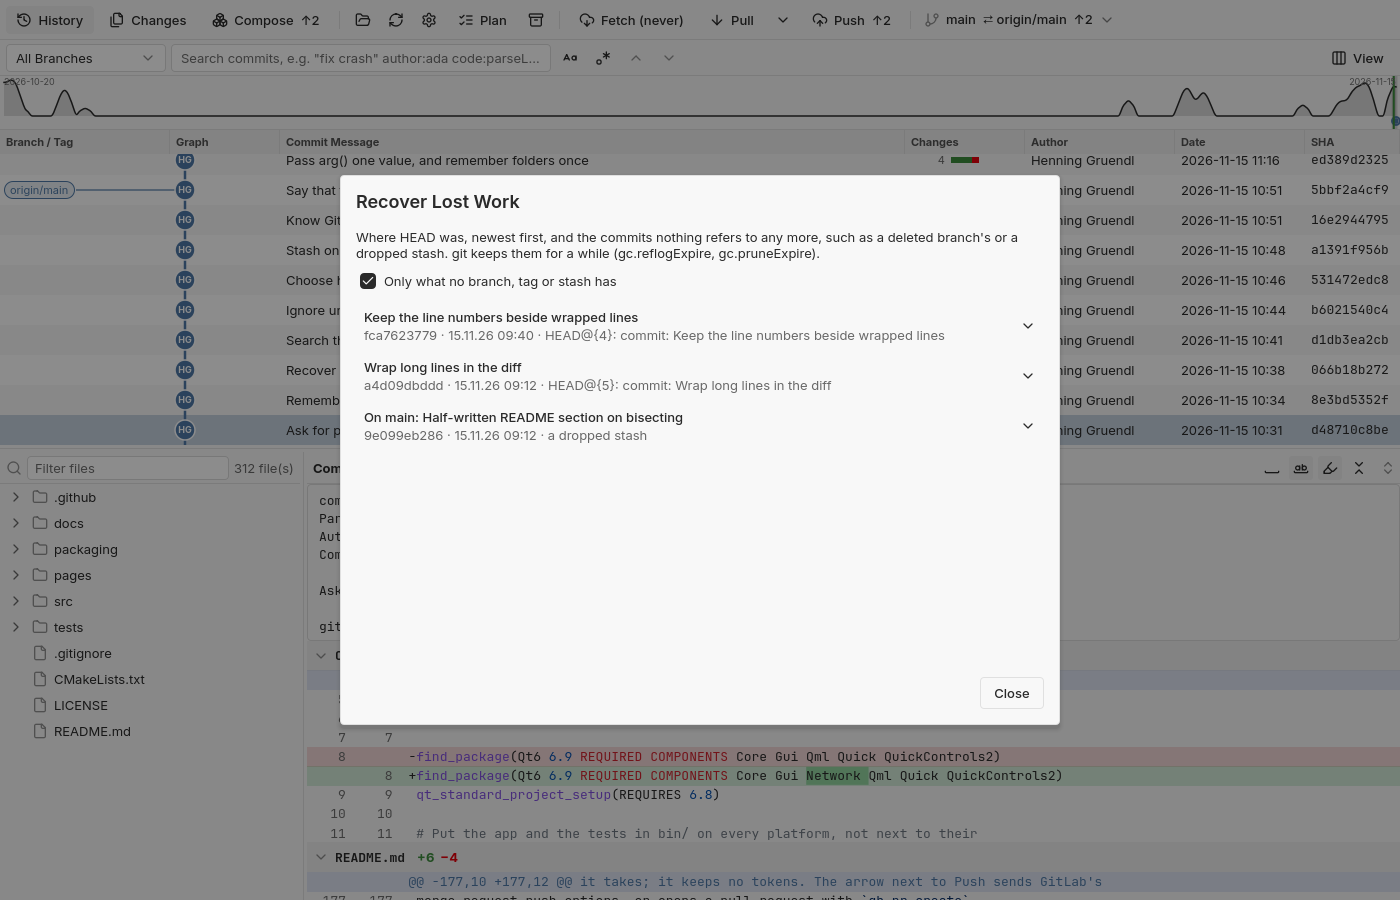
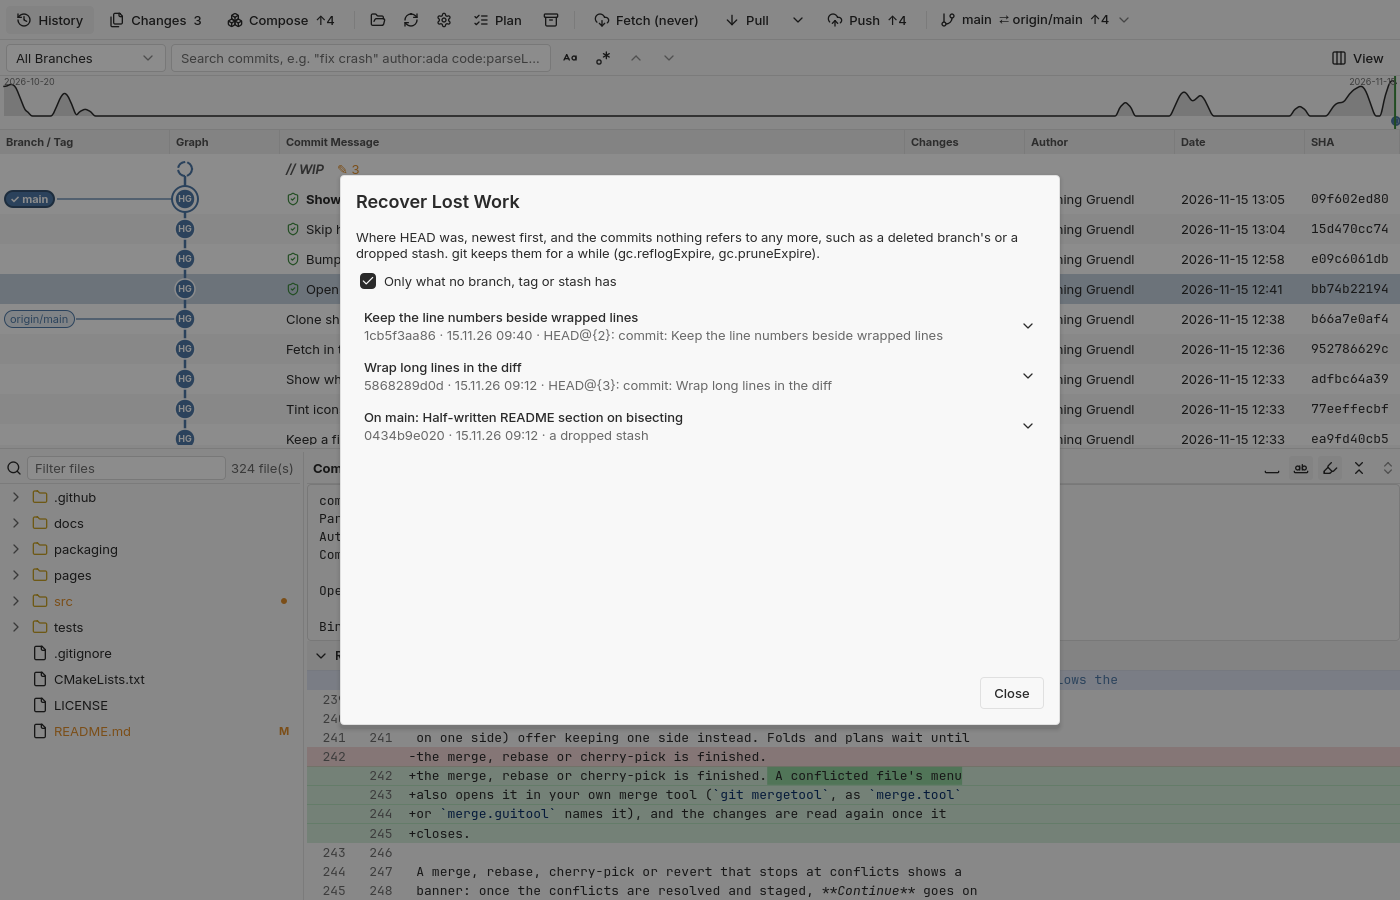
Take the older screenshots again for 0.8.0
The older pictures showed the folders in the disabled gray icons drew
before they took their colors, history from before signatures and the
arrow beside Commit, and a merge tool on a conflict long gone. Take
them all again from a clone of igitt as it is now, with its newest
commits signed and some work lost on purpose: History and the four
themes, the fold, Compose, the merge tool, a file's flow and
time-lapse, the change strip, the code search and Recover Lost Work.

diff --git a/pages/index.html b/pages/index.html
@@ -196,7 +196,7 @@
     window never waits for it.
     <a href="https://github.com/iam-peter/igitt#history">More in the README</a>.</p>
   <img class="shot" src="code-search.png" width="1400" height="900" loading="lazy"
-       alt="The History mode searching code:AskPass: the one commit that added it picked, its diff below">
+       alt="The History mode searching code:AskPass: the three commits that added or removed it, one of them picked, its diff below">
 
   <p>Recover Lost Work, in the repository menu, lists where HEAD was and the commits
     nothing refers to any more: the tip of a branch deleted, a stash dropped, what a

diff --git a/README.md b/README.md
@@ -120,7 +120,7 @@ the commits that added or removed the text, as `git log -S` finds them,
 or with regular expressions those that changed a line matching it
 (`git log -G`).
 
-![The History mode searching code:AskPass: the one commit that added it picked, its diff below](docs/screenshots/code-search.png) The scope selector limits the graph to
+![The History mode searching code:AskPass: the three commits that added or removed it, one of them picked, its diff below](docs/screenshots/code-search.png) The scope selector limits the graph to
 the current branch. Beside the diff, the project's files can be filtered
 by name.
 
